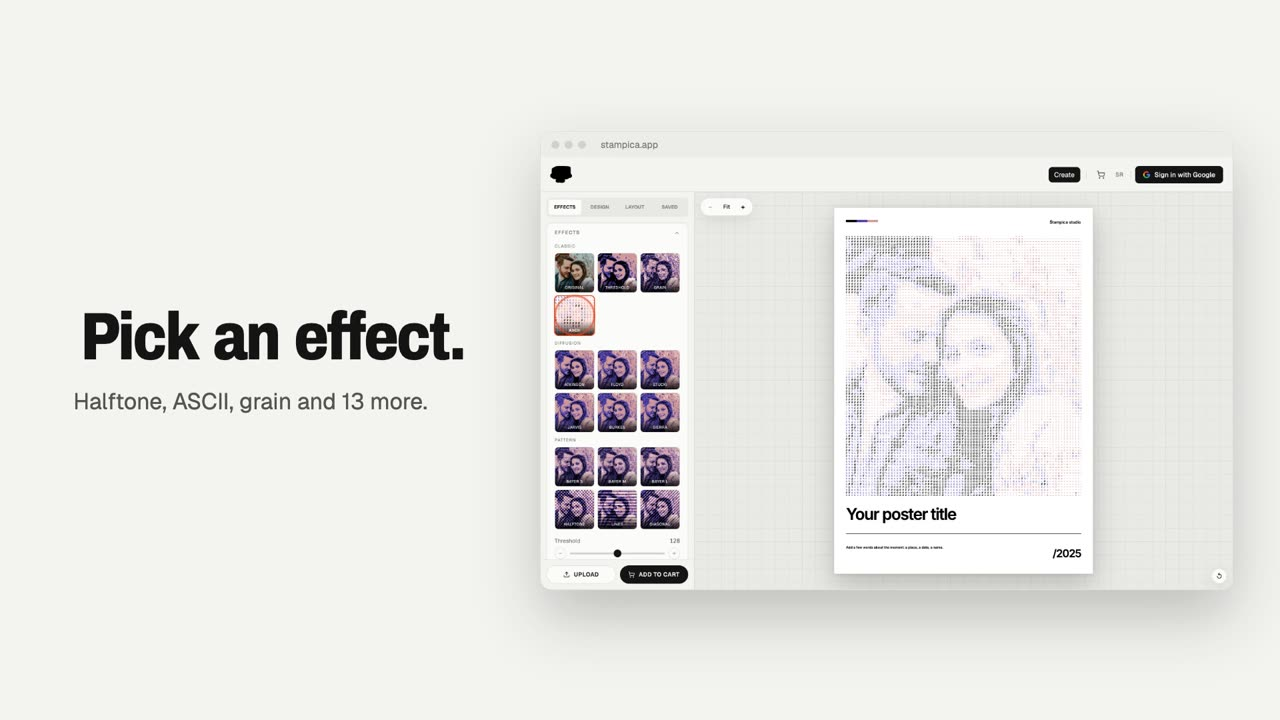
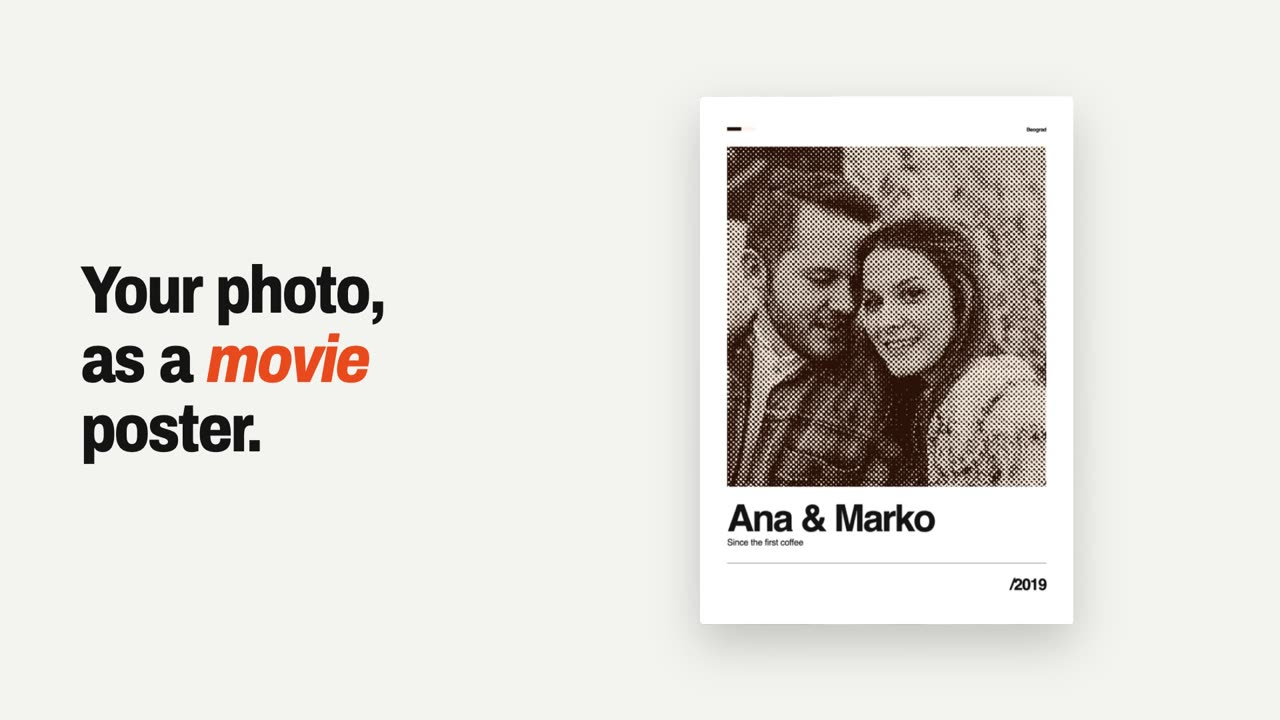
Video plays on demand; size names inside the paper, phone carousel
- How-it-works video no longer autoplays: big play button, then a
  play/pause control; poster frame is the "movie poster" moment
- Size families: name (and ratio for A/B) printed inside the paper
  box, titles below removed; on phones the families are a scroll-snap
  carousel

diff --git a/src/components/HowItWorksVideo.tsx b/src/components/HowItWorksVideo.tsx
@@ -1,38 +1,26 @@
-import { useEffect, useRef, useState } from 'react';
-import { Volume2, VolumeX } from 'lucide-react';
+import { useRef, useState } from 'react';
+import { Play, Pause } from 'lucide-react';
 
 interface Props {
-    soundOnLabel: string;
-    soundOffLabel: string;
+    playLabel: string;
+    pauseLabel: string;
     title: string;
 }
 
 // Landscape cut on desktop, portrait cut on phones; only the chosen file is fetched.
-// Plays muted while on screen (browsers only autoplay muted) and pauses off screen.
-export function HowItWorksVideo({ soundOnLabel, soundOffLabel, title }: Props) {
+// Never autoplays: a play/pause button starts it with sound.
+export function HowItWorksVideo({ playLabel, pauseLabel, title }: Props) {
     const [portrait] = useState(() => !window.matchMedia('(min-width: 768px)').matches);
-    const [reduced] = useState(() => window.matchMedia('(prefers-reduced-motion: reduce)').matches);
-    const [muted, setMuted] = useState(true);
+    const [playing, setPlaying] = useState(false);
+    const [started, setStarted] = useState(false);
     const ref = useRef<HTMLVideoElement>(null);
     const name = portrait ? 'portrait' : 'landscape';
 
-    useEffect(() => {
-        const v = ref.current;
-        if (!v || reduced) return;
-        const io = new IntersectionObserver(([entry]) => {
-            if (entry.isIntersecting) v.play().catch(() => {});
-            else v.pause();
-        }, { threshold: 0.4 });
-        io.observe(v);
-        return () => io.disconnect();
-    }, [reduced]);
-
-    const toggleSound = () => {
+    const toggle = () => {
         const v = ref.current;
         if (!v) return;
-        v.muted = !v.muted;
-        setMuted(v.muted);
-        if (!v.muted && v.paused) v.play().catch(() => {});
+        if (v.paused) v.play().catch(() => {});
+        else v.pause();
     };
 
     return (
@@ -42,22 +30,32 @@ export function HowItWorksVideo({ soundOnLabel, soundOffLabel, title }: Props) {
                 ref={ref}
                 src={`/video/how-it-works-${name}.mp4`}
                 poster={`/video/how-it-works-${name}.jpg`}
-                muted
-                loop
                 playsInline
                 preload="none"
-                controls={reduced}
                 aria-label={title}
-                className="absolute inset-0 w-full h-full object-cover"
+                onPlay={() => { setPlaying(true); setStarted(true); }}
+                onPause={() => setPlaying(false)}
+                onEnded={() => setPlaying(false)}
+                onClick={toggle}
+                className="absolute inset-0 w-full h-full object-cover cursor-pointer"
             />
-            {!reduced && (
+            {/* Big centred play button until the first play; a small corner control after that */}
+            {!started ? (
                 <button
-                    onClick={toggleSound}
-                    aria-label={muted ? soundOnLabel : soundOffLabel}
+                    onClick={toggle}
+                    aria-label={playLabel}
+                    className="press absolute inset-0 m-auto w-20 h-20 rounded-full bg-ink text-paper flex items-center justify-center shadow-sheet hover:bg-black transition-colors"
+                >
+                    <Play size={30} className="ml-1" fill="currentColor" aria-hidden="true" />
+                </button>
+            ) : (
+                <button
+                    onClick={toggle}
+                    aria-label={playing ? pauseLabel : playLabel}
                     className="press absolute right-3 bottom-3 flex items-center gap-2 rounded-full bg-ink/80 text-paper px-3.5 py-2 text-xs font-medium backdrop-blur-sm hover:bg-ink transition-colors"
                 >
-                    {muted ? <VolumeX size={15} aria-hidden="true" /> : <Volume2 size={15} aria-hidden="true" />}
-                    {muted ? soundOnLabel : soundOffLabel}
+                    {playing ? <Pause size={14} fill="currentColor" aria-hidden="true" /> : <Play size={14} fill="currentColor" aria-hidden="true" />}
+                    {playing ? pauseLabel : playLabel}
                 </button>
             )}
         </div>

diff --git a/src/pages/Landing.tsx b/src/pages/Landing.tsx
@@ -198,7 +198,7 @@ export function Landing() {
           {t('howItWorksTitle')}
         </h2>
         <div className="mb-16 md:mb-20">
-          <HowItWorksVideo title={t('howItWorksTitle')} soundOnLabel={t('videoSoundOn')} soundOffLabel={t('videoSoundOff')} />
+          <HowItWorksVideo title={t('howItWorksTitle')} playLabel={t('videoPlay')} pauseLabel={t('videoPause')} />
         </div>
         <div className="grid md:grid-cols-3 gap-12 md:gap-10">
           {steps.map((step, i) => (
@@ -249,16 +249,19 @@ export function Landing() {
             </p>
           </div>
 
-          <div className="grid grid-cols-2 sm:grid-cols-3 gap-x-8 gap-y-12">
+          <div className="no-scrollbar flex sm:grid sm:grid-cols-3 gap-x-8 sm:gap-y-12 overflow-x-auto sm:overflow-visible snap-x snap-mandatory scroll-px-6 -mx-6 px-6 sm:mx-0 sm:px-0 pb-2">
             {SIZE_FAMILIES.map(family => {
               const sizes = sizesInFamily(family.id);
               const ratio = sizes[0].widthMm / sizes[0].heightMm;
               return (
-                <div key={family.id} className="flex flex-col">
-                  <div className="h-28 flex items-end mb-7">
+                <div key={family.id} className="flex flex-col shrink-0 w-[46%] sm:w-auto snap-start">
+                  <div className="h-36 flex items-end mb-7">
                     <div className="relative h-full" style={{ aspectRatio: `${ratio}` }}>
-                      <div className="absolute inset-0 bg-white border border-ink/20 shadow-card flex items-center justify-center">
-                        <span className="font-display font-bold text-sm text-ink-soft tracking-tight whitespace-nowrap">{family.ratio}</span>
+                      <div className="absolute inset-0 bg-white border border-ink/20 shadow-card flex flex-col items-center justify-center text-center px-1">
+                        <span className="font-display font-extrabold text-base leading-tight tracking-[-0.01em]">{family.label}</span>
+                        {family.label !== family.ratio.replace(/ /g, '') && (
+                          <span className="mt-0.5 text-[11px] text-ink-faint whitespace-nowrap">{family.ratio}</span>
+                        )}
                       </div>
                       {/* Dimension lines, like a technical drawing */}
                       <div className="absolute inset-x-0 -bottom-4 h-2 border-x border-ink/40" aria-hidden="true">
@@ -269,8 +272,7 @@ export function Landing() {
                       </div>
                     </div>
                   </div>
-                  <p className="font-display font-bold text-lg tracking-[-0.01em]">{family.label}</p>
-                  <ul className="mt-1 text-sm text-ink-soft leading-relaxed">
+                  <ul className="text-sm text-ink-soft leading-relaxed">
                     {sizes.map(sz => <li key={sz.id} className="whitespace-nowrap">{sz.label}</li>)}
                   </ul>
                 </div>

diff --git a/src/i18n/translations.ts b/src/i18n/translations.ts
@@ -33,8 +33,8 @@ const translations = {
     pricingDigitalTitle: 'One price. Every size.',
     pricingDigitalText: 'Pay once per design and download it in all {count} sizes, from 13×18 cm up to 70×100 cm. Print it anywhere.',
     pricingPerDesign: 'din per design',
-    videoSoundOn: 'Sound on',
-    videoSoundOff: 'Sound off',
+    videoPlay: 'Play',
+    videoPause: 'Pause',
     beforeAfterTitle: 'Same photo. Now it\'s a poster.',
     beforeAfterText: 'Drag to compare. Effects run right in your browser, so every change shows up instantly.',
     beforeAfterAria: 'Compare the original photo with the poster',
@@ -220,8 +220,8 @@ const translations = {
     pricingDigitalTitle: 'Jedna cena. Sve veličine.',
     pricingDigitalText: 'Platiš dizajn jednom i preuzmeš ga u svih {count} veličina, od 13×18 cm do 70×100 cm. Odštampaj gde god želiš.',
     pricingPerDesign: 'din po dizajnu',
-    videoSoundOn: 'Uključi zvuk',
-    videoSoundOff: 'Isključi zvuk',
+    videoPlay: 'Pusti',
+    videoPause: 'Pauza',
     beforeAfterTitle: 'Ista fotografija. Sad je poster.',
     beforeAfterText: 'Prevuci da uporediš. Efekti rade u tvom pregledaču, pa svaku promenu vidiš odmah.',
     beforeAfterAria: 'Uporedi originalnu fotografiju sa posterom',

diff --git a/src/index.css b/src/index.css
@@ -157,3 +157,7 @@ input[type=range]:focus {
   .poster-lift, .press { transition: none; }
   .poster-lift:hover { transform: none; }
 }
+
+/* Horizontal carousels: swipeable without a visible scrollbar */
+.no-scrollbar { scrollbar-width: none; }
+.no-scrollbar::-webkit-scrollbar { display: none; }
